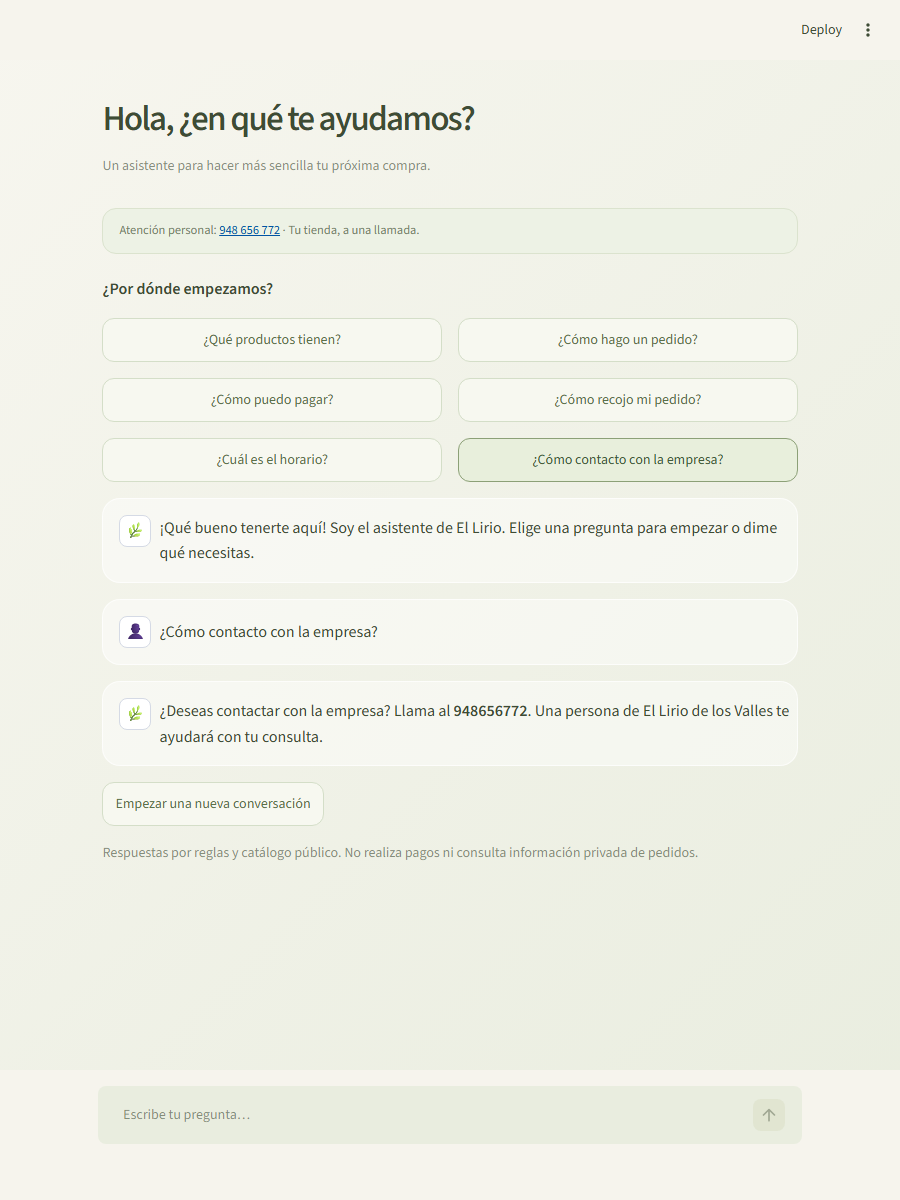
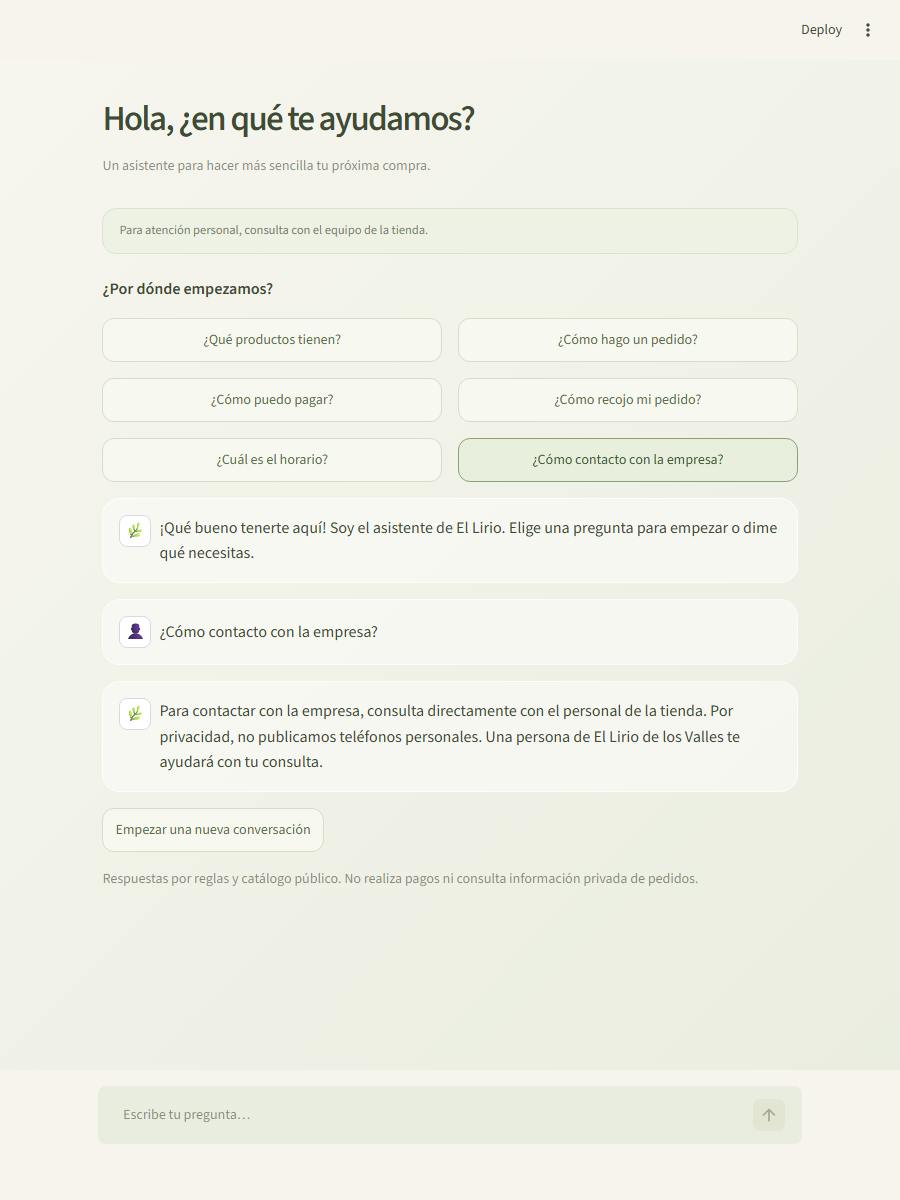
docs: omit company phone from repository presentation

Changed region(s): [[0.1244, 0.5858, 0.8711, 0.74], [0.1244, 0.185, 0.4667, 0.2158]]

diff --git a/docs/VALIDACION.md b/docs/VALIDACION.md
@@ -31,7 +31,7 @@ La coordinación usa un bloqueo local y un identificador por ejecución. Una sol
 
 ## Prueba pública con Cloudflare y MySQL
 
-Se comprobó el acceso público por HTTPS con Nginx, React, Spring Boot, MySQL 8.4 y Streamlit. Las 12 pruebas de escritorio y móvil pasaron a través de la dirección de Cloudflare, incluidos registro, pedido en efectivo, permisos, edición de inventario y la respuesta del chatbot con **948656772**.
+Se comprobó el acceso público por HTTPS con Nginx, React, Spring Boot, MySQL 8.4 y Streamlit. Las 12 pruebas de escritorio y móvil pasaron a través de la dirección de Cloudflare, incluidos registro, pedido en efectivo, permisos, edición de inventario y la respuesta de contacto del chatbot.
 
 También se creó un pedido ficticio con una imagen PNG: el comprobante fue accesible para su propietario y quedó protegido sin sesión; un cliente no pudo acceder a las rutas de administración. Repetir la aprobación no volvió a descontar stock. Los accesos del demo local fueron rechazados en la instancia pública.
 

diff --git a/README.md b/README.md
@@ -32,9 +32,7 @@ Sistema de ventas e inventario para **El Lirio de los Valles**, con tienda para 
 
 El chatbot está hecho con **Streamlit**, consulta el catálogo público y orienta sobre productos, pedidos, pagos, recojo, horarios y contacto. No necesita clave de IA.
 
-La alternativa **«¿Cómo contacto con la empresa?»** responde:
-
-> ¿Deseas contactar con la empresa? Llama al **948656772**. Una persona de El Lirio de los Valles te ayudará con tu consulta.
+El asistente incluye la alternativa **«¿Cómo contacto con la empresa?»** para consultar el contacto de la tienda desde la aplicación.
 
 ![Chatbot de Streamlit](docs/images/chatbot.png)
 
